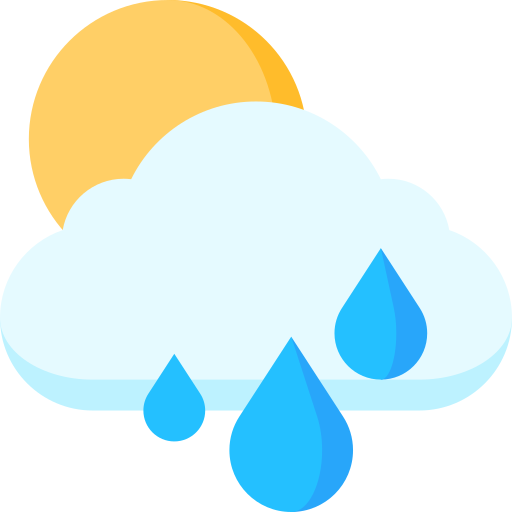
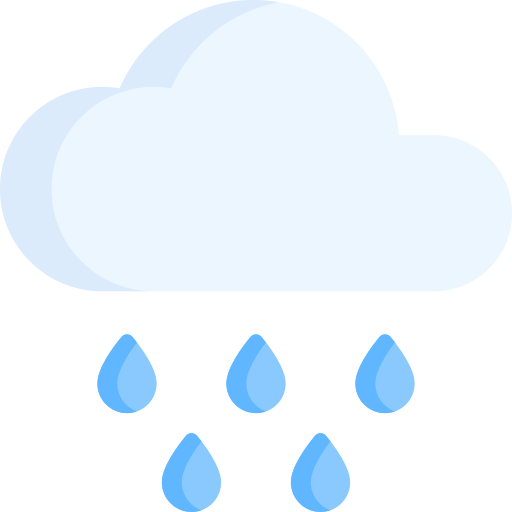
теперь меняются иконки

diff --git a/scripts/index.js b/scripts/index.js
@@ -19,6 +19,7 @@ const temperature = document.querySelector(".content__temperature");
 const humidity = document.querySelector(".details__percent_humidity");
 const windSpeed = document.querySelector(".details__percent_wind");
 const errorSpan = document.querySelector(".content__error");
+const image = document.querySelector('.content__image');
 
 const searchForm = document.querySelector(".content__form");
 const searchInput = document.querySelector(".content__input");
@@ -48,6 +49,7 @@ async function setData(location) {
       throw new Error(`Ошибка ${response.status}`);
     }
     const json = await response.json();
+    setIcon(json.weather.at(0).id);
     loc.textContent = json.name;
     description.textContent = json.weather.at(0).description;
     temperature.textContent = `${json.main.temp}°C`;
@@ -58,6 +60,27 @@ async function setData(location) {
   } catch (error) {
     reportWrongLocation(errorSpan, searchInput, validationObj);
   }
+}
+
+function setIcon(weatherId) {
+  let iconName;
+  if (weatherId >= 200 && weatherId <= 232) {
+    iconName = 'thunderstorm';
+  } else if (weatherId >= 300 && weatherId <= 321) {
+    iconName = 'drizzle';
+  } else if (weatherId >= 500 && weatherId <= 531) {
+    iconName = 'rain';
+  } else if (weatherId >= 600 && weatherId <= 622) {
+    iconName = 'snow';
+  } else if (weatherId >= 701 && weatherId <= 781) {
+    iconName = 'atmosphere';
+  } else if (weatherId === 800) {
+    iconName = 'clear';
+  } else if (weatherId >= 801 && weatherId <= 804) {
+    iconName = 'clouds';
+  }
+  image.src = `./images/${iconName}.png`;
+  image.alt = iconName;
 }
 
 enableValidation(validationObj);

diff --git a/index.html b/index.html
@@ -29,7 +29,7 @@
         <span class="content__error location-name-error">ERROR</span>
         <button type="submit" class="content__button"></button>
       </form>
-      <img src="./images/rain.png" alt="Дождь" class="content__image" />
+      <img src="" alt="" class="content__image" />
       <h1 class="content__text content__location"></h1>
       <p class="content__text content__description"></p>
       <p class="content__text content__temperature"></p>
